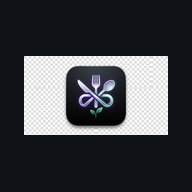
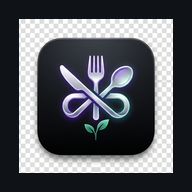
Updates

diff --git a/index.html b/index.html
@@ -1,1 +1,1 @@
-<!doctype html><html lang="es"><head><meta charset="utf-8"/><meta name="viewport" content="width=device-width,initial-scale=1,viewport-fit=cover"/><meta name="theme-color" content="#0F1216"/><meta name="mobile-web-app-capable" content="yes"/><meta name="apple-mobile-web-app-capable" content="yes"/><meta name="apple-mobile-web-app-status-bar-style" content="black-translucent"/><meta name="apple-mobile-web-app-title" content="Nutry"/><link rel="manifest" href="/app-nutry/manifest.json"/><link rel="preconnect" href="https://fonts.googleapis.com"/><link rel="preconnect" href="https://fonts.gstatic.com" crossorigin/><link href="https://fonts.googleapis.com/css2?family=Inter:wght@400;500;600;700&display=swap" rel="stylesheet"/><title>Nutry</title><script defer="defer" src="/app-nutry/static/js/main.f9e64d35.js"></script><link href="/app-nutry/static/css/main.[phone redacted].css" rel="stylesheet"></head><body><div id="root"></div></body></html>
+<!doctype html><html lang="es"><head><meta charset="utf-8"/><meta name="viewport" content="width=device-width,initial-scale=1,viewport-fit=cover"/><meta name="theme-color" content="#0F1216"/><meta name="mobile-web-app-capable" content="yes"/><meta name="apple-mobile-web-app-capable" content="yes"/><meta name="apple-mobile-web-app-status-bar-style" content="black-translucent"/><meta name="apple-mobile-web-app-title" content="Nutry"/><link rel="manifest" href="/app-nutry/manifest.json"/><link rel="preconnect" href="https://fonts.googleapis.com"/><link rel="preconnect" href="https://fonts.gstatic.com" crossorigin/><link href="https://fonts.googleapis.com/css2?family=Inter:wght@400;500;600;700&display=swap" rel="stylesheet"/><title>Nutry</title><script defer="defer" src="/app-nutry/static/js/main.0f86360d.js"></script><link href="/app-nutry/static/css/main.[phone redacted].css" rel="stylesheet"></head><body><div id="root"></div></body></html>